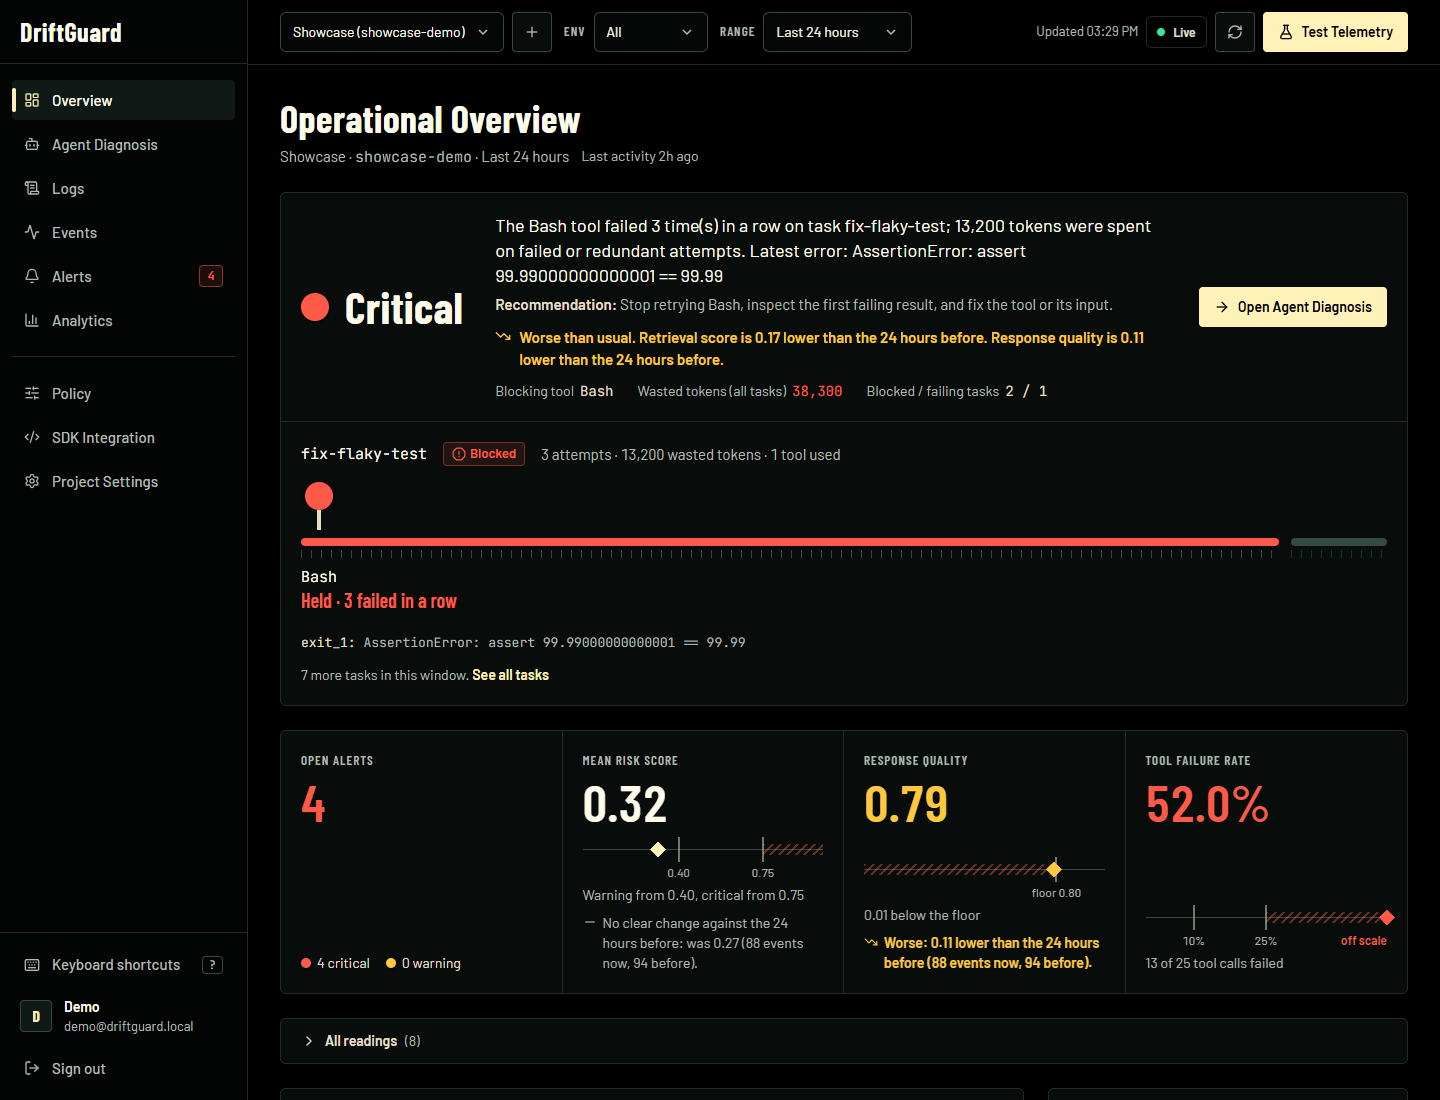
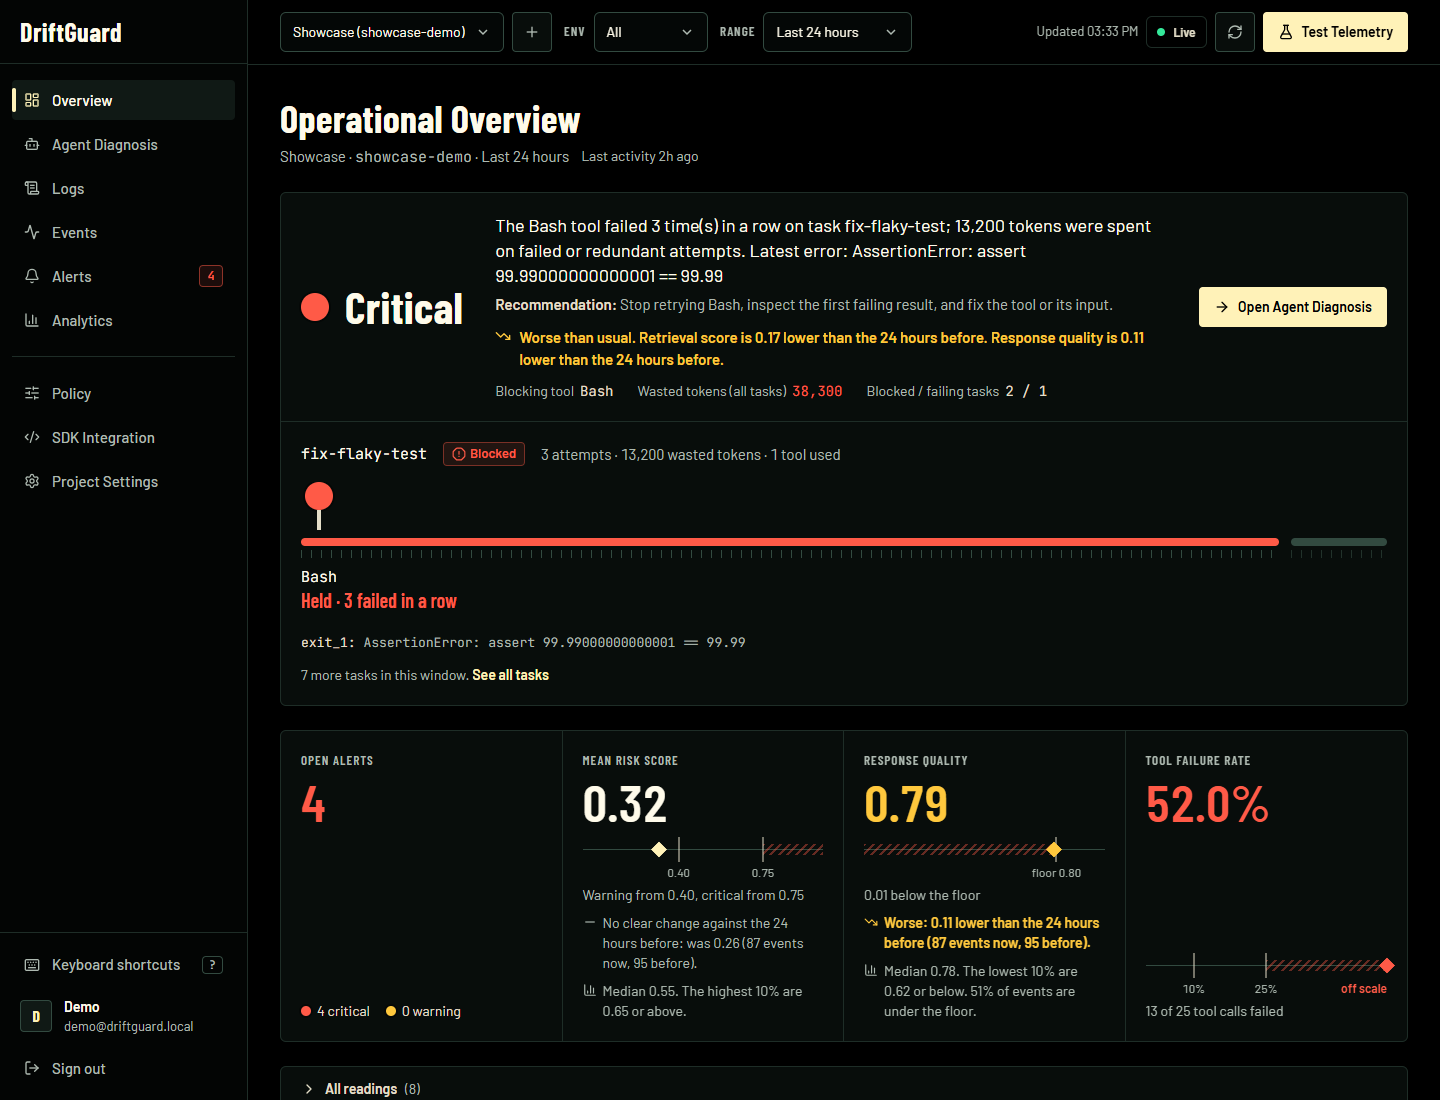
feat: show the spread behind each average (median, weak end, share under the floor)
Add baseline.spread and a spread field on the summary: the median and the 10th and
90th percentiles of retrieval score, response quality and risk score, from the
latest 5,000 readings in the window. The Overview shows them under each average,
with the share of events under the floor, from 10 events. Update the API, concepts,
scoring guide, architecture, dashboard guide, roadmap and changelog, with 6 new
tests and a retaken Overview screenshot.

diff --git a/frontend/src/views/Overview.tsx b/frontend/src/views/Overview.tsx
@@ -6,6 +6,7 @@ import { toPoints } from '../charts/points';
 import { AlertRow } from '../components/AlertRow';
 import { BaselineGauge } from '../components/BaselineGauge';
 import { BaselineLine } from '../components/BaselineLine';
+import { SpreadLine } from '../components/SpreadLine';
 import { Button } from '../components/Button';
 import { Lamp, worst, type LampState } from '../components/Lamp';
 import type { ReactNode } from 'react';
@@ -75,7 +76,12 @@ function OverviewInstruments({ summary, loading }: { summary: Summary | undefine
       </Instrument>
       <Instrument
         label="Mean risk score"
-        extra={<BaselineLine metric={summary.baseline.metrics.risk_score} baseline={summary.baseline} total={summary.total_events} />}
+        extra={
+          <>
+            <BaselineLine metric={summary.baseline.metrics.risk_score} baseline={summary.baseline} total={summary.total_events} />
+            <SpreadLine spread={summary.spread.risk_score} minSample={summary.baseline.min_sample} tail="high" />
+          </>
+        }
         figure={fmtScore(risk)}
         figureTone={TONE_TEXT[riskTone]}
         note={risk === null ? 'No scored events in this window' : 'Warning from 0.40, critical from 0.75'}
@@ -94,7 +100,17 @@ function OverviewInstruments({ summary, loading }: { summary: Summary | undefine
       </Instrument>
       <Instrument
         label="Response quality"
-        extra={<BaselineLine metric={summary.baseline.metrics.response_quality} baseline={summary.baseline} total={summary.total_events} />}
+        extra={
+          <>
+            <BaselineLine metric={summary.baseline.metrics.response_quality} baseline={summary.baseline} total={summary.total_events} />
+            <SpreadLine
+              spread={summary.spread.response_quality}
+              minSample={summary.baseline.min_sample}
+              tail="low"
+              belowFloorRate={summary.violation_rates.response_quality_floor}
+            />
+          </>
+        }
         figure={fmtScore(quality)}
         figureTone={qualityBelow ? 'text-amber' : 'text-ink'}
         note={
@@ -166,6 +182,12 @@ function AllReadings({ summary }: { summary: Summary }) {
       <>
         {summary.total_events > 0 && avg.retrieval_score == null ? 'Not reported by this source' : `Floor ${fmtScore(p.retrieval_score_floor)}`}
         <BaselineLine metric={summary.baseline.metrics.retrieval_score} baseline={summary.baseline} total={summary.total_events} />
+        <SpreadLine
+          spread={summary.spread.retrieval_score}
+          minSample={summary.baseline.min_sample}
+          tail="low"
+          belowFloorRate={summary.violation_rates.retrieval_score_floor}
+        />
       </>,
     ],
   ];

diff --git a/frontend/src/components/SpreadLine.tsx b/frontend/src/components/SpreadLine.tsx
@@ -1,0 +1,35 @@
+import { BarChart3 } from 'lucide-react';
+import { fmtPercent, fmtScore } from '../lib/format';
+import type { Spread } from '../types';
+
+/**
+ * The spread behind an average: the median, the weak end, and the share of events past the
+ * floor. A mean can hide a split (half near 1.0, half near 0.6), and these show it.
+ * It stays silent below `minSample` readings, where percentiles are just noise.
+ */
+export function SpreadLine({
+  spread,
+  minSample,
+  tail,
+  belowFloorRate,
+}: {
+  spread: Spread | undefined;
+  minSample: number;
+  /** `low` for scores where low is bad, `high` for risk where high is bad. */
+  tail: 'low' | 'high';
+  /** Share of events that broke the floor, 0 to 1. Omit for readings without a floor. */
+  belowFloorRate?: number | null;
+}) {
+  if (!spread || spread.n < minSample || spread.median === null) return null;
+  const edge = tail === 'low' ? spread.p10 : spread.p90;
+  return (
+    <span className="mt-1 flex items-start gap-1.5 text-sm text-muted">
+      <BarChart3 aria-hidden className="mt-0.5 size-3.5 shrink-0" />
+      <span>
+        Median {fmtScore(spread.median)}.
+        {edge !== null && ` The ${tail === 'low' ? 'lowest' : 'highest'} 10% are ${fmtScore(edge)} or ${tail === 'low' ? 'below' : 'above'}.`}
+        {belowFloorRate !== undefined && belowFloorRate !== null && ` ${fmtPercent(belowFloorRate, 0)} of events are under the floor.`}
+      </span>
+    </span>
+  );
+}

diff --git a/frontend/src/types.ts b/frontend/src/types.ts
@@ -183,6 +183,13 @@ export interface AgentActivity {
   last_activity: string | null;
 }
 
+/** The middle and the ends of a window's readings, so a mean can't hide a split. */
+export interface Spread {
+  n: number;
+  median: number | null;
+  p10: number | null;
+  p90: number | null;
+}
 export type BaselineStatus = 'insufficient' | 'steady' | 'worse' | 'better';
 export interface BaselineMetric {
   current: number | null;
@@ -219,6 +226,7 @@ export interface Summary {
   warning_alerts: number;
   saved_tokens: number;
   agent_activity: AgentActivity;
+  spread: Record<'retrieval_score' | 'response_quality' | 'risk_score', Spread>;
   baseline: Baseline;
   last_updated: string | null;
   policy: Policy;

diff --git a/tests/test_baseline.py b/tests/test_baseline.py
@@ -9,6 +9,7 @@ from datetime import datetime, timedelta, timezone
 import pytest
 
 from driftguard.baseline import MIN_SAMPLE, compare
+from driftguard.baseline import spread as readings_spread
 
 
 def stats(values):
@@ -143,3 +144,51 @@ def test_an_empty_project_has_a_baseline_with_nothing_in_it(client, project):
     baseline = _summary(client, project, time_range="24h")["baseline"]
     assert baseline["available"] is True
     assert all(m["status"] == "insufficient" and m["current"] is None for m in baseline["metrics"].values())
+
+
+def test_spread_of_nothing_is_empty():
+    assert readings_spread([]) == {"n": 0, "median": None, "p10": None, "p90": None}
+
+
+def test_spread_of_one_reading_is_that_reading():
+    assert readings_spread([0.7]) == {"n": 1, "median": 0.7, "p10": 0.7, "p90": 0.7}
+
+
+def test_spread_matches_known_percentiles():
+    result = readings_spread([i / 100 for i in range(1, 101)])  # 0.01 .. 1.00
+    assert result["n"] == 100
+    assert result["median"] == pytest.approx(0.505, abs=1e-3)
+    assert result["p10"] == pytest.approx(0.109, abs=1e-3)
+    assert result["p90"] == pytest.approx(0.901, abs=1e-3)
+
+
+def test_spread_shows_a_split_the_mean_hides():
+    split = [1.0] * 10 + [0.6] * 10  # the mean is 0.8
+    result = readings_spread(split)
+    assert sum(split) / len(split) == pytest.approx(0.8)
+    assert result["p10"] == 0.6 and result["p90"] == 1.0
+
+
+def test_summary_reports_the_spread_of_each_metric(client, project):
+    for i in range(20):
+        body = {
+            "prompt_tokens": 1000,
+            "context_length": 2000,
+            "retrieval_score": 0.9,
+            "response_quality": 0.5 + i * 0.02,
+        }
+        assert (
+            client.post(f"/events/{project['project_id']}", json=body, headers=project["key_headers"]).status_code
+            == 200
+        )
+    summary = client.get(f"/projects/{project['project_id']}/summary", headers=project["key_headers"]).json()
+    quality = summary["spread"]["response_quality"]
+    assert quality["n"] == 20
+    assert quality["median"] == pytest.approx(0.69, abs=0.01)
+    assert quality["p10"] < quality["median"] < quality["p90"]
+    assert summary["spread"]["retrieval_score"]["median"] == 0.9
+
+
+def test_summary_spread_is_empty_for_an_empty_project(client, project):
+    summary = client.get(f"/projects/{project['project_id']}/summary", headers=project["key_headers"]).json()
+    assert summary["spread"]["response_quality"] == {"n": 0, "median": None, "p10": None, "p90": None}

diff --git a/driftguard/baseline.py b/driftguard/baseline.py
@@ -16,7 +16,7 @@ because with enough events a tiny shift is always "significant".
 from __future__ import annotations
 
 import math
-from collections.abc import Mapping
+from collections.abc import Mapping, Sequence
 from typing import Any
 
 # Readings needed on each side before any comparison is made.
@@ -30,6 +30,8 @@ MIN_BASELINE_HOURS = 24
 # For these metrics a rise is bad. For the others a fall is bad.
 HIGHER_IS_WORSE = frozenset({"risk_score"})
 METRICS = ("retrieval_score", "response_quality", "risk_score")
+# The most recent readings used for percentiles, so a huge window stays cheap.
+SPREAD_SAMPLE = 5000
 _Z_CAP = 99.0
 
 
@@ -87,3 +89,30 @@ def compare(metric: str, current: Mapping[str, Any], baseline: Mapping[str, Any]
         status = "worse" if worse else "better"
     result.update({"delta": _round(delta), "z": round(z, 2), "status": status})
     return result
+
+
+def _quantile(ordered: Sequence[float], q: float) -> float:
+    """The ``q`` quantile of sorted values, interpolating between neighbours."""
+    position = (len(ordered) - 1) * q
+    low = math.floor(position)
+    high = math.ceil(position)
+    if low == high:
+        return float(ordered[low])
+    return float(ordered[low] + (ordered[high] - ordered[low]) * (position - low))
+
+
+def spread(values: Sequence[float]) -> dict[str, Any]:
+    """The median and the 10th and 90th percentiles of a window's readings.
+
+    A mean can hide a split distribution: half the answers near 1.0 and half near
+    0.6 average to 0.8. The percentiles show it. ``n`` is how many readings they rest on.
+    """
+    if not values:
+        return {"n": 0, "median": None, "p10": None, "p90": None}
+    ordered = sorted(float(v) for v in values)
+    return {
+        "n": len(ordered),
+        "median": _round(_quantile(ordered, 0.5)),
+        "p10": _round(_quantile(ordered, 0.1)),
+        "p90": _round(_quantile(ordered, 0.9)),
+    }

diff --git a/driftguard/server/service.py b/driftguard/server/service.py
@@ -18,7 +18,7 @@ from sqlalchemy.engine import Connection, Engine, RowMapping
 from sqlalchemy.exc import IntegrityError
 
 from driftguard.agent_analysis import FAILED_STATUSES, SUCCESS_STATUSES, analyze_agent_events
-from driftguard.baseline import METRICS, MIN_BASELINE_HOURS, MIN_SAMPLE, compare
+from driftguard.baseline import METRICS, MIN_BASELINE_HOURS, MIN_SAMPLE, SPREAD_SAMPLE, compare, spread
 from driftguard.policy import DEFAULT_POLICY, evaluate_drift
 
 from . import db
@@ -631,6 +631,20 @@ class DriftGuardService:
             ).all()
             activity = self._agent_activity(conn, project_id, environment, cutoff)
             baseline = self._baseline(conn, project_id, environment, time_range, cutoff)
+            spreads = {
+                metric: spread(
+                    [
+                        row[0]
+                        for row in conn.execute(
+                            select(events.c[metric])
+                            .where(*event_filter, events.c[metric].is_not(None))
+                            .order_by(events.c.created_at.desc())
+                            .limit(SPREAD_SAMPLE)
+                        )
+                    ]
+                )
+                for metric in METRICS
+            }
 
         open_alerts = self.list_alerts(
             project_id, severity=severity, environment=environment, time_range=time_range, resolved=False
@@ -669,6 +683,7 @@ class DriftGuardService:
             "warning_alerts": warning,
             "saved_tokens": saved,
             "agent_activity": activity,
+            "spread": spreads,
             "baseline": baseline,
             "last_updated": max(filter(None, (last_event, last_alert, last_activity)), default=None),
             "policy": policy,

diff --git a/docs/api.md b/docs/api.md
@@ -286,6 +286,9 @@ Overview numbers. Filters: `environment`, `severity` (applies to alerts), `time_
   "agent_activity": {"events": 24, "tool_calls": 23, "failed_tool_calls": 0, "failure_rate": 0.0,
                      "turns": 1, "tasks": 2, "total_tokens": 120600, "avg_tool_duration_ms": 12400.0,
                      "last_activity": "2026-10-01T07:29:25Z"},
+  "spread": {"response_quality": {"n": 107, "median": 0.8123, "p10": 0.62, "p90": 0.9351},
+             "retrieval_score": {"n": 107, "median": 0.7, "p10": 0.31, "p90": 0.93},
+             "risk_score": {"n": 107, "median": 0.0, "p10": 0.0, "p90": 0.6}},
   "baseline": {"available": true, "reason": null, "window_seconds": 86400, "start": "2026-09-29T04:13:48Z",
                "end": "2026-09-30T04:13:48Z", "min_sample": 10,
                "metrics": {"response_quality": {"current": 0.8124, "baseline": 0.8962, "n_current": 107, "n_baseline": 78,
@@ -305,6 +308,10 @@ Overview numbers. Filters: `environment`, `severity` (applies to alerts), `time_
   - `turns` counts `response` events, which are finished turns.
   - `total_tokens` takes each finished task's `response` total, or the sum of
     its tool calls while the task is unfinished.
+- `spread` gives, for `retrieval_score`, `response_quality` and `risk_score`, the
+  count `n` of readings and their `median`, 10th (`p10`) and 90th (`p90`)
+  percentiles. They use the latest 5,000 readings in the window, and are `null`
+  without any. A mean can hide a split distribution; these show it.
 - `baseline` compares the window's averages with the period just before it. See
   [How DriftGuard works](concepts.md#is-it-worse-than-usual-baseline-comparison).
   - It covers `retrieval_score`, `response_quality` and `risk_score`. The

diff --git a/docs/scoring-guide.md b/docs/scoring-guide.md
@@ -144,8 +144,9 @@ Read the dashboard with these limits in mind.
   0.99 to 0.85 never crosses it. That is why the Overview also
   [compares the window with the period before it](concepts.md#is-it-worse-than-usual-baseline-comparison).
 - **An average hides the spread.** A mean quality of 0.81 can be a steady 0.81, or
-  half the answers near 1.0 and half near 0.6. The share of events below the
-  floor, in the Drift Risk Breakdown, shows that better than the mean does.
+  half the answers near 1.0 and half near 0.6. The Overview shows the median, the
+  weak end and the share of events under the floor beneath each average, and the
+  Drift Risk Breakdown shows the share that broke each rule.
 - **Few events make noisy averages.** The comparison refuses to judge with fewer
   than 10 events on either side, and the Overview says when an average rests on
   only a handful.
@@ -159,6 +160,6 @@ Read the dashboard with these limits in mind.
 How often the checks catch a real problem, and how often they raise a false one, is
 measured in [the baseline study](../research/BASELINE_STUDY.md).
 
-Not built yet, and listed in the [roadmap](roadmap.md): percentiles beside each
-mean, a breakdown by model and route, alerts on a sustained drop from the
-baseline, and weights that can be fitted to labelled data.
+Not built yet, and listed in the [roadmap](roadmap.md): a breakdown by model and
+route, alerts on a sustained drop from the baseline, and weights that can be
+fitted to labelled data.

diff --git a/docs/roadmap.md b/docs/roadmap.md
@@ -93,6 +93,8 @@ runs, not by unit tests: the frontend has none yet.
 - [x] Redesign review fixes: a track that fills its width, a failures-in-a-row
   gauge on Agent Diagnosis, no gaps below the Overview's charts, and a readable
   phone layout.
+- [x] The median, the weak end and the share under the floor beneath each average,
+  so a mean can't hide a split.
 - [x] The baseline line reads "No clear change" and shows its sample size, after the
   [baseline study](../research/BASELINE_STUDY.md) found "steady" over-claimed.
 - [x] **Baseline comparison.** Mean retrieval, quality and risk against the period
@@ -108,8 +110,8 @@ runs, not by unit tests: the frontend has none yet.
   least 3 checks in a row plus a cooldown, and to consider a sequential method
   (CUSUM or EWMA), because a 3-sigma check repeated at every event raises false
   alarms in about 5 percent of streams.
-- [ ] Percentiles (median and 10th) beside each mean, and a breakdown by model,
-  route and environment so a drift can be pinned to one cause.
+- [ ] A breakdown by model and route so a drift can be pinned to one cause. This
+  needs those fields stored on telemetry events.
 - [ ] Weights and thresholds that can be fitted to labelled data, and exposed in
   Policy.
 - [ ] Outcome signals for Claude Code (tests pass at the end of a turn, the user

diff --git a/docs/dashboard.md b/docs/dashboard.md
@@ -120,6 +120,14 @@ between the marker and the tick.
 | Response quality | Average 0–1 answer quality from your evaluator, with the policy floor ticked ([how to calculate it](scoring-guide.md)). It says **Not reported by this source** when telemetry exists but carries no score, as with Claude Code. |
 | Tool failure rate | Failed ÷ all tool calls. Ticks at 10% (amber) and 25% (red). Shown as a dash until the project has agent events. |
 
+**The spread behind each average.** Under **Mean risk score** and **Response quality**
+(and **Mean retrieval score** in All readings) a line gives the **median**, the
+weak end (the lowest 10% for scores, the highest 10% for risk) and, for scores,
+the share of events under the floor. A mean can hide a split: half the answers
+near 1.0 and half near 0.6 average to 0.8, but the median and the weak end show
+it. The line appears from 10 events. These use the latest 5,000 readings in the
+window.
+
 **Compared with before.** Under **Mean risk score** and **Response quality**
 (and **Mean retrieval score** in All readings) a line compares the window with
 the same length of time just before it, at least 24 hours:

diff --git a/CHANGELOG.md b/CHANGELOG.md
@@ -32,6 +32,11 @@ All notable changes to DriftGuard are recorded here. The format follows
     retrieval score, and adds a "Worse than usual" line to the status plate. It is
     advice only: it raises no alert and doesn't change the status.
   - `driftguard/baseline.py` holds the maths, with 14 new tests.
+- **Spread behind each average.** `GET /projects/{id}/summary` gains `spread`:
+  the median and the 10th and 90th percentiles of each metric, from the latest
+  5,000 readings in the window. The Overview shows them under Mean risk score,
+  Response quality and Mean retrieval score, with the share of events under the
+  floor, so an average can't hide a split. It appears from 10 events. 6 new tests.
 - **Keyboard shortcuts.** `g` then `o` `d` `l` `e` `a` `n` `p` `s` `t` jumps
   between views, `/` focuses the search box, `r` refreshes and `?` lists them.
   They are off while typing or with a dialog open.

diff --git a/docs/concepts.md b/docs/concepts.md
@@ -183,6 +183,15 @@ card numbers first, and cut to 2,000 characters. Data older than 30 days is
 deleted automatically. Passwords are hashed with scrypt, API keys are stored
 only as hashes, and one account can never see another account's projects.
 
+## Averages and spread
+
+The Overview shows averages, but an average can hide how readings are spread. A
+mean quality of 0.80 could be every answer near 0.80, or half near 1.0 and half
+near 0.60. So each average has a line beneath it with the **median** (the typical
+event), the **weak end** (the lowest 10% of scores, or the highest 10% of risk),
+and the share of events under the floor. If the mean and the median are far
+apart, a few extreme events are pulling the average.
+
 ## Is it worse than usual? (baseline comparison)
 
 A floor says "below a line". It can't say "worse than normal". A project whose
